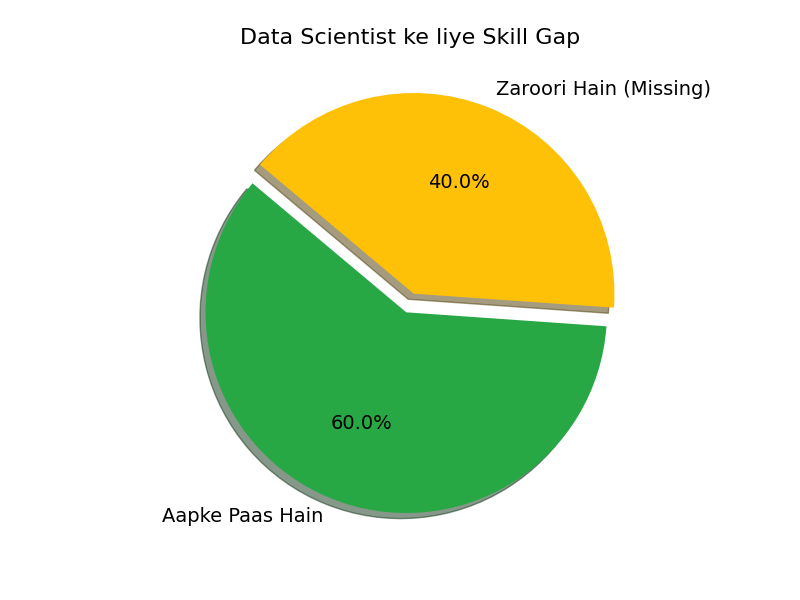
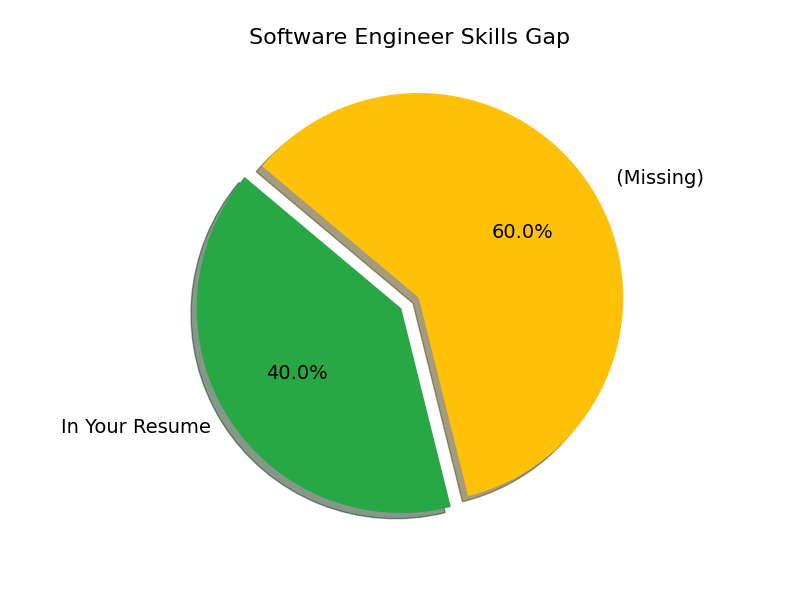
commit

diff --git a/templates/result.html b/templates/result.html
@@ -171,14 +171,12 @@
             <div class="col-lg-7 mb-4">
                 <div class="result-card" data-aos="fade-right" data-aos-delay="200">
                     <h4 class="d-flex align-items-center"><i class="bi bi-briefcase-fill card-title-icon"></i>Predicted Job Title</h4>
-                    <!-- *** CHANGE 1: Using job_title variable from Flask *** -->
                     <p class="predicted-job-title">{{ job_title }}</p>
                     <hr class="my-4">
                     <div class="row">
                         <div class="col-md-6 mb-3">
                             <h5 class="mb-3"><i class="bi bi-check-circle-fill" style="color: var(--success-color);"></i> Your Skills</h5>
                             <ul class="skill-list">
-                                <!-- *** CHANGE 2: Looping through user_skills from Flask *** -->
                                 {% for skill in user_skills %}
                                     <li>{{ skill }}</li>
                                 {% else %}
@@ -189,7 +187,6 @@
                         <div class="col-md-6">
                             <h5 class="mb-3"><i class="bi bi-exclamation-triangle-fill" style="color: var(--warning-color);"></i> Missing Skills</h5>
                             <ul class="skill-list">
-                                <!-- *** CHANGE 3: Looping through missing_skills from Flask *** -->
                                 {% for skill in missing_skills %}
                                     <li>{{ skill }}</li>
                                 {% else %}
@@ -206,12 +203,10 @@
                 <div class="result-card" data-aos="fade-left" data-aos-delay="400">
                     <h4><i class="bi bi-pie-chart-fill card-title-icon"></i>Skill Gap Visualization</h4>
                     <p>Your skills compared to the requirements for a {{ job_title }}.</p>
-                    <!-- *** CHANGE 4: Displaying the chart image from Flask *** -->
                     <div class="chart-container text-center">
                         <img src="{{ chart_url }}" alt="Skill Gap Chart">
                     </div>
                     <div class="text-center mt-auto pt-4">
-                        <!-- *** CHANGE 5: Passing job_title to roadmap URL *** -->
                         <a href="{{ url_for('roadmap', job_title=job_title) }}" class="action-button">
                             <i class="bi bi-map-fill me-2"></i> Get Your Custom Roadmap
                         </a>

diff --git a/templates/roadmap.html b/templates/roadmap.html
@@ -157,22 +157,18 @@
         <div data-aos="fade-down">
             <h1 class="main-title">
                 Your Career Roadmap for<br>
-                <!-- *** CHANGE 1: Using job_title variable from Flask *** -->
                 <span class="job-title">{{ job_title }}</span>
             </h1>
             <p class="text-center lead mb-5">Generated by Gemini AI to help you advance your career.</p>
         </div>
 
-        <!-- *** CHANGE 2: Displaying roadmap content from Flask *** -->
         <div class="roadmap-content-card" data-aos="fade-up" data-aos-delay="200">
             <div class="roadmap-text">
-                <!-- The 'safe' filter tells Jinja2 to render the HTML from the variable -->
                 {{ roadmap|safe }}
             </div>
         </div>
         
         <div class="text-center mt-5" data-aos="fade-up" data-aos-delay="400">
-            <!-- *** CHANGE 3: Corrected download link *** -->
             <a href="{{ url_for('download_roadmap', job_title=job_title) }}" class="btn download-btn">
                 <i class="bi bi-file-earmark-arrow-down-fill me-2"></i>
                 <span>Download Roadmap as PDF</span>

diff --git a/app.py b/app.py
@@ -11,30 +11,27 @@ from fpdf import FPDF
 import markdown2
 from bs4 import BeautifulSoup
 
-# --- CONFIGURATION ---
-# Apni Gemini API Key yahan daalein
-# IMPORTANT: Apni key yahan daalein
-# Agar aapke paas API key nahi hai, to ise khaali chhod dein: ''
-GEMINI_API_KEY = 'AIzaSyBEsZIEMH6sxPqgPwdWgKivLfHcoaM7BGQ' # Apni asli key yahan daalein
 
-# --- INITIALIZATION ---
-# Flask app initialize karein
+GEMINI_API_KEY = 'Your API key here' 
+
+
+
 app = Flask(__name__)
 app.config['UPLOAD_FOLDER'] = 'uploads'
 os.makedirs(app.config['UPLOAD_FOLDER'], exist_ok=True)
 
-# Gemini API ko configure karein
+# Gemini API configure 
 if GEMINI_API_KEY:
     try:
         genai.configure(api_key=GEMINI_API_KEY)
     except Exception as e:
-        print(f"Gemini API configure karte samay error: {e}")
+        print(f"error at the time API configure: {e}")
         genai = None
 else:
-    print("Gemini API key nahi mili. Roadmap generation feature kaam nahi karega.")
+    print("API key not found.")
     genai = None
 
-# --- HELPER FUNCTIONS (Must be defined before loading models) ---
+# --- HELPER FUNCTIONS 
 
 def custom_tokenizer(text):
     """
@@ -44,26 +41,27 @@ def custom_tokenizer(text):
     """
     return text.split(', ')
 
-# --- LOAD MODELS AND DATA (Ek hi baar load hoga jab app start hogi) ---
+# --- LOAD MODELS AND DATA 
 try:
-    # Machine Learning models aur encoders load karein
+    # Machine Learning models and encoders 
     model = joblib.load('random_forest_model.pkl')
     tfidf = joblib.load('tfidf_vectorizer.pkl')
     edu_encoder = joblib.load('edu_encoder.pkl')
     loc_encoder = joblib.load('loc_encoder.pkl')
     label_encoder = joblib.load('label_encoder.pkl')
 
-    # Job roles aur skills ka data load karein
+
+    # Job roles and skills data load 
     with open('job_roles_skills.json', 'r') as f:
         job_roles_skills = json.load(f)
 except FileNotFoundError as e:
-    print(f"ERROR: Zaroori file nahi mili: {e}. Sunishchit karein ki sabhi .pkl aur .json files maujood hain.")
-    # App ko crash hone se rokne ke liye, aap yahan exit kar sakte hain ya default values set kar sakte hain
-    model, tfidf, edu_encoder, loc_encoder, label_encoder, job_roles_skills = (None,)*6
+    print(f"ERROR: important file not found : {e}. Make seur that all .pkl and .json files are uploaded.")
+
+    model, tfidf, edu_encoder, loc_encoder, label_encoder, job_roles_skills = (None,)*6  # for stpping app crashes
 
 
-def extract_text_from_resume(filepath):
-    """PDF ya DOCX file se text nikalne ke liye function."""
+def extract_text_from_resume(filepath):     # fuction for extracting text from resume 
+
     text = ""
     try:
         if filepath.lower().endswith('.pdf'):
@@ -76,24 +74,24 @@ def extract_text_from_resume(filepath):
         print(f"Error extracting text from {filepath}: {e}")
     return text
 
-def extract_skills_from_text(text, all_skills):
-    """Diye gaye text se skills nikalne ke liye function."""
+def extract_skills_from_text(text, all_skills):    # function for extracting skills from text
+
     extracted_skills = set()
     text_lower = text.lower()
     for skill in all_skills:
-        # Whole word matching ke liye regular expression
+        # regular expression for whole word matching
         if re.search(r'\b' + re.escape(skill.lower()) + r'\b', text_lower):
             extracted_skills.add(skill)
     return list(extracted_skills)
 
-def generate_skill_gap_chart(user_skills, required_skills, predicted_title):
-    """Pie chart banane ke liye function jo skill gap dikhata hai."""
+def generate_skill_gap_chart(user_skills, required_skills, predicted_title):   # fuction for skills gap visualization
+
     try:
         import matplotlib
-        matplotlib.use('Agg') # GUI backend ke bina chalane ke liye
+        matplotlib.use('Agg') #  for use without GUI backend 
         import matplotlib.pyplot as plt
     except ImportError:
-        print("Matplotlib install nahi hai. Chart generate nahi hoga.")
+        print("Matplotlib is not installed. Please install.")
         return None
 
 
@@ -103,53 +101,112 @@ def generate_skill_gap_chart(user_skills, required_skills, predicted_title):
     matched_skills_count = len(user_skill_set.intersection(required_skill_set))
     missing_skills_count = len(required_skill_set - user_skill_set)
 
-    # Agar koi required skill nahi hai, to chart na banayein
+   # if there is no skills gap then return None
     if not required_skill_set:
         return None
 
-    labels = ['Aapke Paas Hain', 'Zaroori Hain (Missing)']
+    labels = ['In Your Resume', ' (Missing)']
     sizes = [matched_skills_count, missing_skills_count]
-    colors = ['#28a745', '#ffc107'] # Green and Yellow
+    colors = ['#28a745', '#ffc107'] 
     explode = (0, 0.1) if missing_skills_count > 0 else (0, 0)
 
     fig1, ax1 = plt.subplots(figsize=(8, 6))
     ax1.pie(sizes, explode=explode, labels=labels, autopct='%1.1f%%',
             shadow=True, startangle=140, colors=colors, textprops={'fontsize': 14, 'color': 'black'})
     ax1.axis('equal')
-    plt.title(f'{predicted_title} ke liye Skill Gap', fontsize=16, pad=20)
+    plt.title(f'{predicted_title} Skills Gap', fontsize=16, pad=20)
     
     chart_path = os.path.join(app.config['UPLOAD_FOLDER'], "skill_gap_chart.png")
     plt.savefig(chart_path)
     plt.close()
     return os.path.basename(chart_path)
 
-def get_roadmap_from_gemini(job_title):
-    """Gemini API se career roadmap generate karne ke liye function."""
+def get_roadmap_from_gemini(job_title):  # function to generate roadmap using API
+
     if not GEMINI_API_KEY or not genai:
-        return "Gemini API key configure nahi hai. Kripya `app.py` me apni key daalein."
+        return " ERROR: Gemini API is not configure. Please add API key in app.py"
     try:
-        model = genai.GenerativeModel('gemini-1.5-flash-latest')
-        prompt = f"Act as a career coach. Create a detailed, step-by-step career roadmap for someone who wants to become a '{job_title}'. The response should be in Hinglish (Hindi written in English script). The output must be in Markdown format. Include sections for: Foundational Skills (Week 1-4), Intermediate Skills (Week 5-8), Advanced Topics (Week 9-12), and Project Building (Week 13-16). For each skill, suggest 1-2 popular online resources (like YouTube channels, Udemy courses, or official docs)."
+        model = genai.GenerativeModel('gemini-2.5-pro')
+
+        prompt = f"""
+You are a professional career coach. Your task is to create a comprehensive and well-structured career roadmap for someone who wants to become a '{job_title}'.
+
+Instructions:
+- Write the entire response in clear and professional English.
+- Format the output using clean Markdown with proper headings (#, ##) and bullet points (-).
+- Avoid any asterisk-based formatting.
+- Ensure the layout is easy to read, logically structured, and consistent throughout.
+
+Roadmap Format:
+
+# Career Roadmap: {job_title}
+
+## Overview
+- Provide a brief summary of the role and its importance in the industry.
+- Mention key responsibilities and typical career growth path.
+
+## Week 1-4: Foundational Skills
+### Objectives
+- List 3 to 5 core skills or topics to learn during this phase.
+### Learning Tasks
+- Briefly describe what the learner should do each week.
+### Resources
+- Recommend 1-2 quality online resources per topic (YouTube, Udemy, official docs, etc.)
+
+## Week 5-8: Intermediate Skills
+### Objectives
+- Cover intermediate-level concepts that build upon the basics.
+### Practice & Assignments
+- Suggest small projects, exercises, or challenges.
+### Resources
+- Provide recommended learning materials with brief explanations.
+
+## Week 9-12: Advanced Topics
+### Objectives
+- Introduce advanced subjects relevant to the job role.
+### Real-World Applications
+- Explain how these skills are applied in industry settings.
+### Resources
+- Suggest trusted sources to master these topics.
+
+## Week 13-16: Project Phase
+### Capstone Projects
+- Suggest 1 or 2 meaningful projects to showcase skills.
+### Tools & Technologies
+- List tools, frameworks, or platforms the learner should use.
+### Guidance
+- Provide links to example projects or tutorials if available.
+
+## Optional: Bonus Section
+- Tips for resume building, certifications, portfolio creation, or interview preparation (only if applicable to the role).
+
+## Final Advice
+- End with a short motivational note to encourage consistent learning and self-discipline.
+
+Make sure the roadmap is practical, actionable, and tailored to someone starting this journey from scratch.
+"""
+
+
         response = model.generate_content(prompt)
-        # Markdown ko HTML me convert karein
+        # Markdown to HTML convert 
         return markdown2.markdown(response.text)
     except Exception as e:
         print(f"Gemini API Error: {e}")
-        return f"Roadmap generate karte samay error aa gaya: {e}. Kripya check karein ki aapka API key sahi hai aur model ka naam (`gemini-1.5-flash-latest`) astitva mein hai."
+        return f"error occur at the time of roadmap generation: {e}. please check your API key."
 
 
 # --- FLASK ROUTES ---
 
 @app.route('/')
 def index():
-    """Home page render karta hai."""
+    """render Home Page."""
     return render_template('index.html')
 
 @app.route('/upload', methods=['POST'])
 def upload_file():
-    """Resume upload, process, aur result page render karta hai."""
+    """Resume upload, process, and render result page."""
     if not all([model, tfidf, edu_encoder, loc_encoder, label_encoder, job_roles_skills]):
-        return "Server theek se configure nahi hua hai. Kripya admin se sampark karein.", 500
+        return "Server is not configured properly.", 500
 
     if 'resume' not in request.files:
         return redirect(url_for('index'))
@@ -162,18 +219,18 @@ def upload_file():
         filepath = os.path.join(app.config['UPLOAD_FOLDER'], file.filename)
         file.save(filepath)
 
-        # 1. Resume se text aur skills extract karein
+        # 1. Extract text and skills from resume.
         resume_text = extract_text_from_resume(filepath)
         if not resume_text:
-            return "Resume se text extract nahi ho paya. Kripya file check karein.", 400
+            return "Text could not be extracted. Please check your file.", 400
             
         all_possible_skills = {skill for skills in job_roles_skills.values() for skill in skills}
         user_skills = extract_skills_from_text(resume_text, all_possible_skills)
 
-        # 2. Model ke liye input taiyyar karein
+        # 2. Prepare input for model
         skills_tfidf = tfidf.transform([', '.join(user_skills)]).toarray()
         
-        # Default values (aap ise form se bhi le sakte hain)
+        # Default values
         education_level = 'B.Tech'
         location = 'Bangalore'
         experience = 2 # years
@@ -184,19 +241,19 @@ def upload_file():
         
         X_new = np.hstack((skills_tfidf, education_encoded, location_encoded, experience_reshaped))
 
-        # 3. Job title predict karein
+        # 3. Job title prediction
         prediction_index = model.predict(X_new)[0]
         predicted_job_title = label_encoder.inverse_transform([prediction_index])[0]
 
-        # 4. Required aur Missing skills calculate karein
+        # 4. Required and Missing skills calculate 
         required_skills = job_roles_skills.get(predicted_job_title, [])
         missing_skills = list(set(required_skills) - set(user_skills))
         
-        # 5. Skill gap chart generate karein
+        # 5. Skill gap chart generate 
         chart_filename = generate_skill_gap_chart(user_skills, required_skills, predicted_job_title)
         chart_url = url_for('static_file', filename=chart_filename) if chart_filename else None
 
-        # 6. Result page ko saare data ke saath render karein
+        # 6. Generate result page with whole data
         return render_template(
             'result.html',
             job_title=predicted_job_title,
@@ -207,7 +264,7 @@ def upload_file():
 
 @app.route('/roadmap')
 def roadmap():
-    """Gemini se roadmap generate karke page par dikhata hai."""
+    """Generate roadmap and render."""
     job_title = request.args.get('job_title', 'Software Developer')
     roadmap_html_content = get_roadmap_from_gemini(job_title)
     return render_template('roadmap.html', job_title=job_title, roadmap=roadmap_html_content)
@@ -226,20 +283,15 @@ def download_roadmap():
     pdf = FPDF()
     pdf.add_page()
     
-    # ---*** FIX YAHAN HAI ***---
-    # PROBLEM: Aap 'Poppins' font ka istemal kar rahe the jo FPDF me define nahi tha.
-    # SOLUTION: Hum FPDF ke standard 'Arial' font ka istemal karenge.
-    # Title ke liye Bold (B) style ka istemal karein.
+
     pdf.set_font('Arial', 'B', 16)
     pdf.cell(0, 10, txt=f"{job_title} Roadmap", ln=True, align='C')
     pdf.ln(10)
     
-    # Body ke liye regular font.
+    
     pdf.set_font('Arial', '', 11)
     
-    # Hinglish text me special characters ho sakte hain.
-    # Unko handle karne ke liye text ko encode karein taaki PDF generation fail na ho.
-    # Yeh ek suraksha kavach hai jo app ko crash hone se bachayega.
+
     safe_text = roadmap_text.encode('latin-1', 'replace').decode('latin-1')
     pdf.multi_cell(0, 8, txt=safe_text)
     
@@ -251,19 +303,19 @@ def download_roadmap():
     
 @app.route('/uploads/<filename>')
 def static_file(filename):
-    """Static folder se files serve karne ke liye (jaise chart image)."""
+    """To save file from static folder (like chart image)."""
     return send_from_directory(app.config['UPLOAD_FOLDER'], filename)
 
 
 if __name__ == '__main__':
-    # Zaroori libraries install karne ke liye check
+    # to install important libraries
     try:
         import bs4
         import markdown2
         import matplotlib
     except ImportError:
-        print("\n--- Zaroori Package Install Karein ---")
-        print("Kuch zaroori packages (beautifulsoup4, markdown2, matplotlib) nahi mile.")
-        print("Kripya install karein: pip install beautifulsoup4 markdown2 matplotlib\n")
+        print("\n--- install important libraries ---")
+        print("Some important packages (beautifulsoup4, markdown2, matplotlib) not installed.")
+        print("please install them: pip install beautifulsoup4 markdown2 matplotlib\n")
 
     app.run(debug=True)
